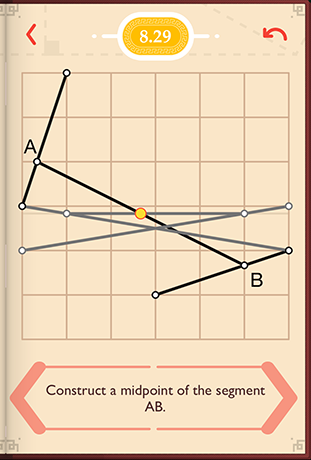
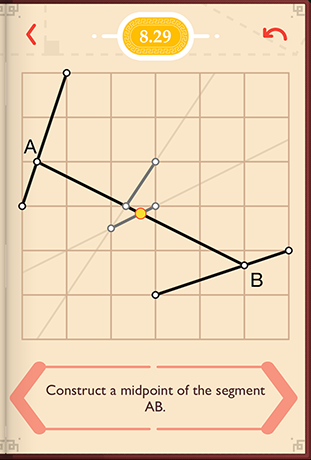
更新介绍和描述

Changed region(s): [[0.0579, 0.3957, 0.955, 0.5783], [0.463, 0.3348, 0.5209, 0.3957]]

diff --git a/Pythagorea60.md b/Pythagorea60.md
@@ -1,12 +1,12 @@
-### Pythagorea60解法
-apple app store里Pythagorea60游戏的解法，低难度题目略。
+### Pythagorea60 解法
+对应 Apple app store 里的 Pythagorea60 游戏
 
 #### § Angle Bisetors
-- 12.4 [内心。角平分线的交点](solving/Pythagorea60/12.04.png)
-- 12.5 [角平分线。画一个菱型，对角线即为角平分线](solving/Pythagorea60/12.05.png)
-- 12.6 [角平分线。画一个菱型，对角线即为角平分线](solving/Pythagorea60/12.06.png)
-- 12.7 [角平分线。向角开头的方向平移作菱型，对角线即为角平分线](solving/Pythagorea60/12.07.png)
-- 12.8 [角平分线。水平对称的角对称轴即角平分线](solving/Pythagorea60/12.08.png)
+- 12.4 [内心。解：角平分线的交点](solving/Pythagorea60/12.04.png)
+- 12.5 [角平分线。解：画一个菱型，对角线即为角平分线](solving/Pythagorea60/12.05.png)
+- 12.6 [角平分线。解：画一个菱型，对角线即为角平分线](solving/Pythagorea60/12.06.png)
+- 12.7 [角平分线。解：向角开头的方向平移作菱型，对角线即为角平分线](solving/Pythagorea60/12.07.png)
+- 12.8 [角平分线。解：水平对称的角对称轴即角平分线](solving/Pythagorea60/12.08.png)
 
 
 

diff --git a/README.md b/README.md
@@ -1,2 +1,5 @@
-Pythagorea, Pythagorea 60, Euclidea 3, XSection 难点解答
-访问: http://tairraos.github.io/Geometry-Solving
+对应 Apple app store 里的 Pythagorea, Pythagorea 60, Euclidea 3, XSection 四款游戏。简单的题目略过了，相对难的题目提供我的解答。每道几何命题，解题思路都可以有很多。如果你有更好的思路，欢迎提交issue给我，共同进步。
+
+带简单UI的网页请访问: http://tairraos.github.io/Geometry-Solving
+
+

diff --git a/Glossary.md b/Glossary.md
@@ -13,6 +13,7 @@
 |clockwise|顺时针|
 |construct|作图|
 |counterclockwise|逆时针|
+|corss|相交|
 |cross section|截面|
 |cube|正方体|
 |cuboid|长方体|
@@ -36,7 +37,9 @@
 |opposite|对向的|
 |parallel|平行|
 |parallelogram|平行四边形|
+|pass through|经过|
 |perpendicular|垂直|
+|plane|平面|
 |polygon|多边形|
 |polyhedron|多面体|
 |polyline|折线|

diff --git a/Euclidea3.md b/Euclidea3.md
@@ -1,4 +1,4 @@
 ### Euclidea 3解法
-apple app store里Euclidea 3游戏的解法，低难度题目略。
+对应 Apple app store 里的 Euclidea3 游戏
 
 

diff --git a/XSection.md b/XSection.md
@@ -1,4 +1,4 @@
 ### XSection解法
-apple app store里XSection游戏的解法，低难度题目略。
+对应 Apple app store 里的 XSection 游戏
 
 
